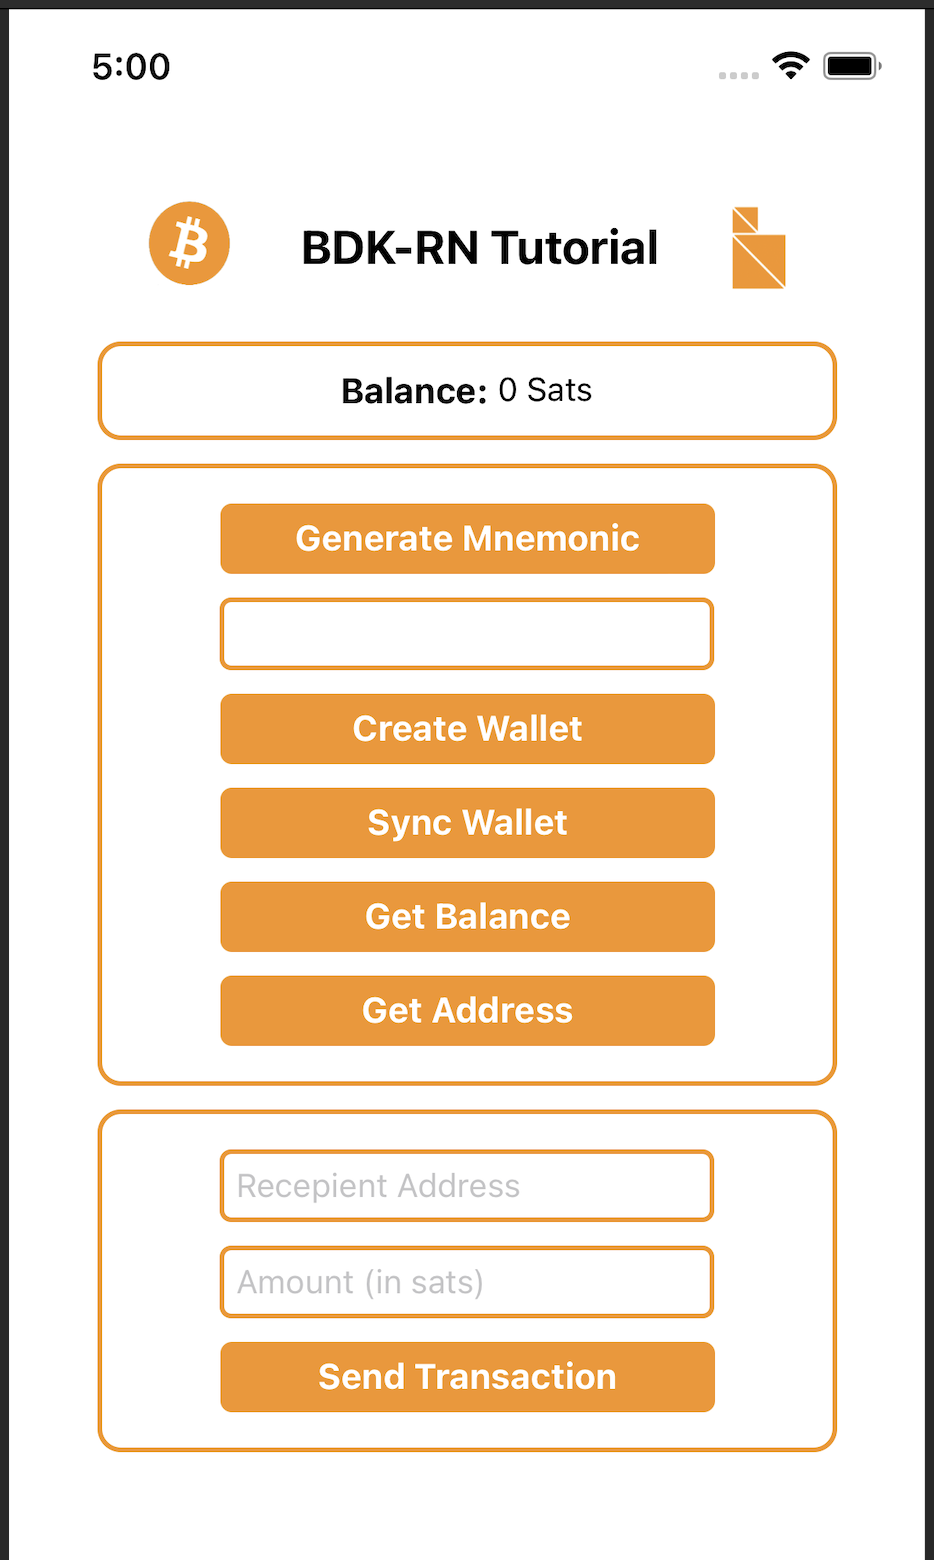
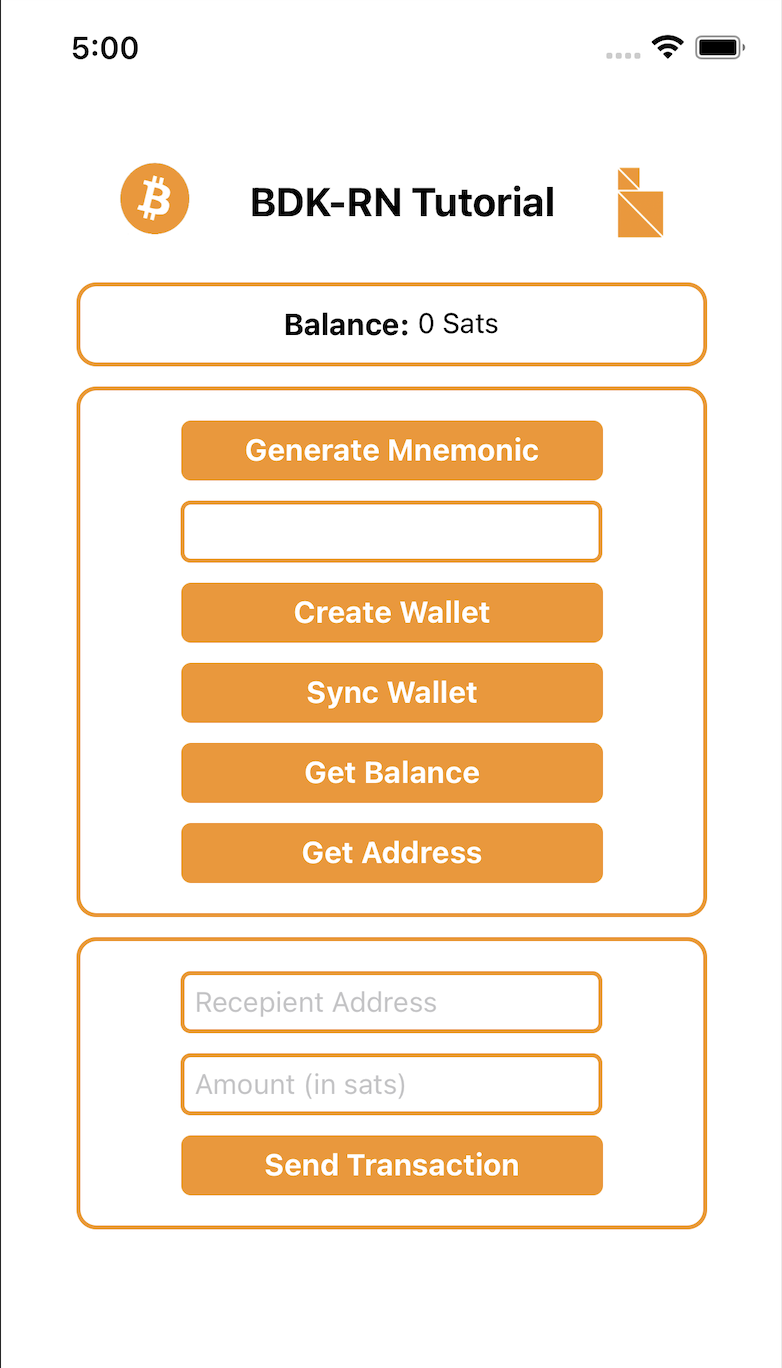
change default image, minor corrections

Changed region(s): [[0.0921, 0.0921, 0.9207, 0.9518], [0.0, 0.0, 1.0, 1.0]]

diff --git a/docs/tutorials/exploring_bdk_rn.md b/docs/tutorials/exploring_bdk_rn.md
@@ -16,7 +16,7 @@ In this tutorial we will explore `bdk-rn` usage and the api it provides. This gu
 The tutorial will focus on bitcoin and `bdk-rn` concepts and api and will gloss over react native related aspects. 
 All the code for this tutorial is available on Github at https://github.com/LtbLightning/AwesomeBitcoinApp
 
-<img src="./exploring_bdk_rn/bdk_rn_complete_app_device.png" alt="BDK RN Quick Start" style="display: block; margin: 0 auto; zoom: 50%;" />
+<img src="./exploring_bdk_rn/bdk_rn_complete_app.png" alt="BDK RN Quick Start" style="display: block; margin: 0 auto; zoom: 50%;" />
 
 ### Prerequisites
 
@@ -64,11 +64,11 @@ This should start building the app and then launch the app in an  simulator. So 
 
 Let's setup a very basic app structure and some RN scaffolding. Lets create a `src` folder in the project root and then add new folders for `assets`, `elements`, `screens` and `styles`
 
-To make this quick you can download the styles and images used in the tutorial from the repository. The image assets, `Button.tsx` and `styles.js` can be take from https://github.com/LtbLightning/AwesomeBitcoinApp/tree/master/src and moved the folders as shown. Alternatively you can write your own styles and use your own images if you intend to style the app in a different way.
+To make this quick you can download the styles and images used in the tutorial from the repository. The image assets, `Button.tsx` and `styles.js` can be taken from https://github.com/LtbLightning/AwesomeBitcoinApp/tree/master/src and moved to the folders as shown. Alternatively you can write your own styles and use your own images if you intend to style the app in a different way.
 
- create a `home.js` file under screens, this will be where we will be adding most of our code.
+ create a `home.js` file under screens, this will be where we will be adding most of the code.
 
-Once done the file structure should look like Figure 3.
+Once done the file structure should look like this:
 
 <img src="./exploring_bdk_rn/folder_structure.png" style="display: block; margin: 0px auto; zoom: 67%;" />
 
@@ -531,9 +531,9 @@ We should now have the following, and Get Address will be able to display a new 
 
 
 
-Now that we are able to generate a receive address we can get some testnet bitcoin from one of the public testnet faucets like https://coinfaucet.eu/en/btc-testnet/ or https://bitcoinfaucet.uo1.net/ and https://testnet-faucet.mempool.co/ 
+Now that we are able to generate a receive address we can get some testnet bitcoin from one of the public [testnet faucets](https://coinfaucet.eu/en/btc-testnet/)
 
-After we send and transaction is confirmed we will need to sync wallet before we can see the new balance.
+After we send and after the transaction is confirmed we will need to sync wallet before we can see the new balance from the received transaction.
 
 ## Restoring wallet
 
@@ -643,11 +643,20 @@ In the meantime keep in touch with the project on [GitHub](https://github.com/Lt
 #### References:
 
 - [bdk](https://github.com/bitcoindevkit)
+
 - [bdk-rn](https://github.com/LtbLightning/bdk-rn)
+
 - [Awesome Bitcoin App Github Repository](https://github.com/LtbLightning/AwesomeBitcoinApp)
+
 - [Setup React Native Development Environment](https://reactnative.dev/docs/environment-setup)
+
 - [Mastering Bitcoin(HD Wallet chapter)](https://www.oreilly.com/library/view/mastering-bitcoin/9781491902639/ch04.html)
+
 - [Bitcoin Output Descriptors from bitcoin GitHub](https://github.com/bitcoin/bitcoin/blob/master/doc/descriptors.md)
+
+- [Testnet Faucet]( https://coinfaucet.eu/en/btc-testnet/ or https://bitcoinfaucet.uo1.net/)
+
+  
 
 
 
